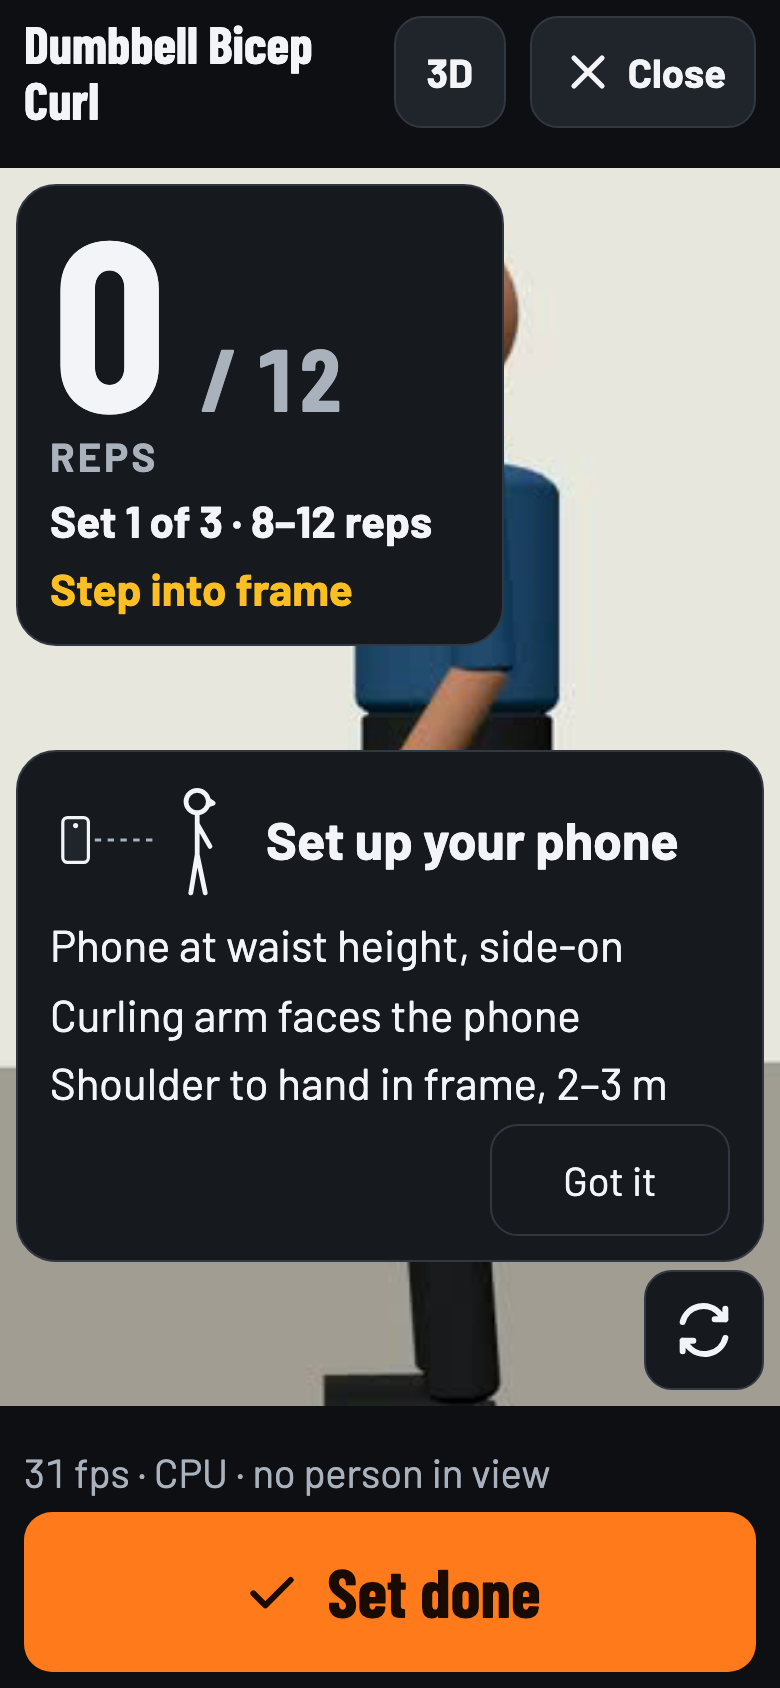
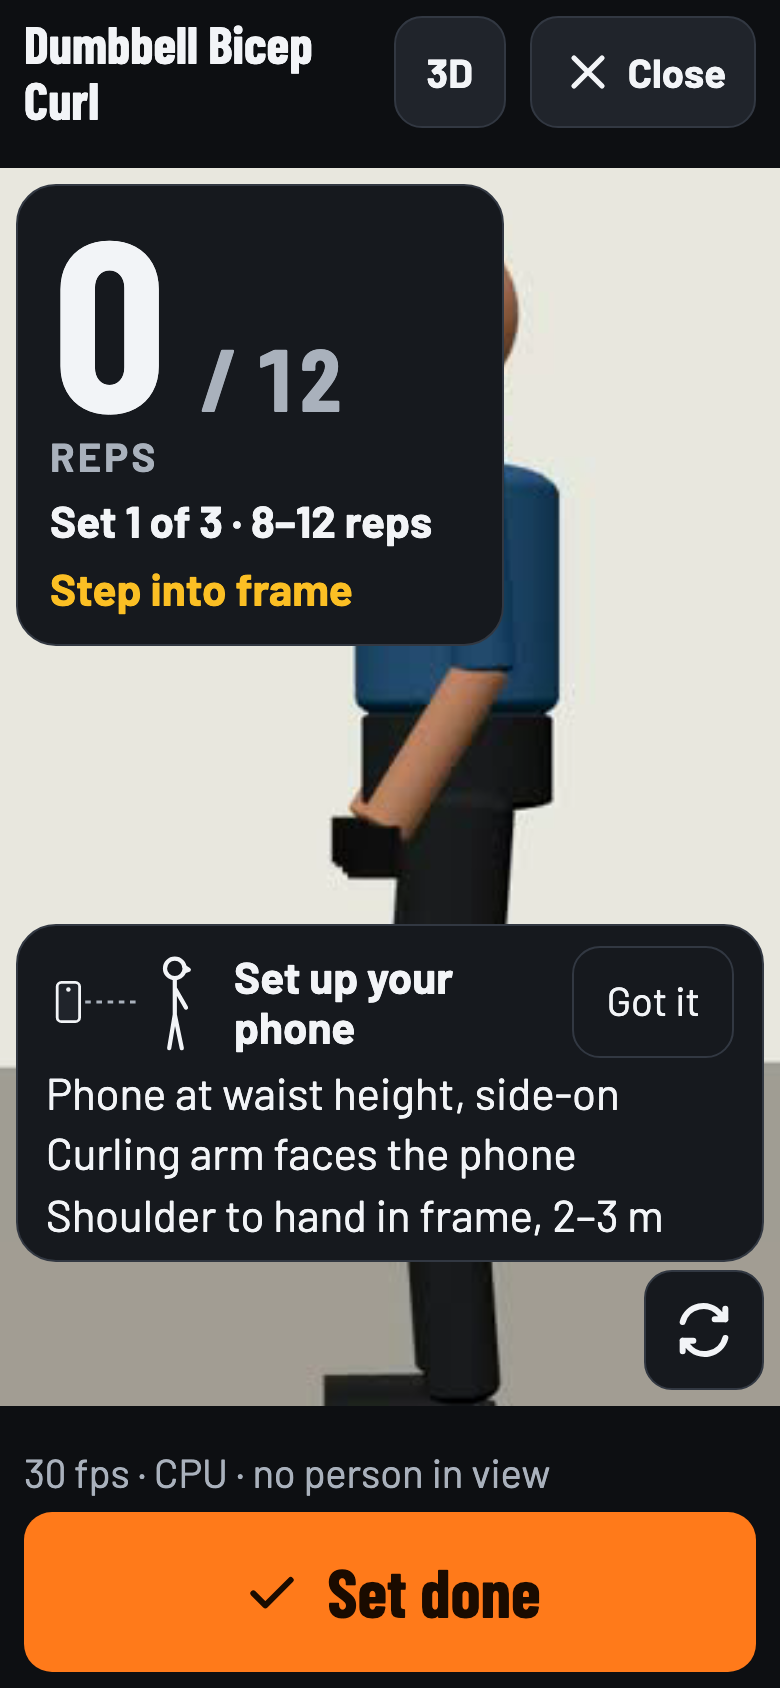
M4f wave 1 verified: screenshots, evidence, 375x667 set-up card noted as follow-up

Changed region(s): [[0.0, 0.4313, 0.9846, 0.7393], [0.0615, 0.8626, 0.0923, 0.8934]]

diff --git a/docs/PROGRESS.md b/docs/PROGRESS.md
@@ -225,6 +225,9 @@ Claude Code updates this file at the end of every task. A fresh session resumes 
 
 - **Evidence, wave 1 tasks 1–5, 8 (2026-11-14):** M4d batch 2 committed first (bb227b2, reviewer PASS). Then tasks 1–5, 8 and the task-10 howto.spec update, reviewer PASS: `npm run check` on the exact staged tree → vitest 51 files / 1802 tests, scripts 24/24; `e2e/howto.spec.ts` 3/3. Task 5 changed one demo keyframe: bent-over row far elbow 80° → 75° (15° past the < 90° threshold). Not shippable yet: tasks 6, 7, 9, 10 (synthetic fixtures, converter, camera chip/setup line, `ruleStatus` into `beginSet`) must land before any push.
 
+- **Verification, wave 1 (2026-11-14, verifier re-run on 96b0971):** PASS on SPEC M4f wave-1 Accept and tasks 1–11. `npm run check` 52 files / 1836 tests, scripts 29/29; `npm run build` OK (main 107.22 kB gzip); full e2e 111 passed, 1 skipped (opt-in HISTORY_SHOTS), no flakes; learning.spec ×3 33/33. Screenshots `docs/screenshots/m4f-*.png`. First verifier run FAILED (setup card clipped at 390×844, e2e gaps) → fixed in 80f9f3d.
+  - **Known limitation (main, decided):** at 375×667 the camera set-up card is a short scroll box (content cut; "Got it" stays fully visible, 56px, and the rep number is never covered). This also affects tuned exercises and predates M4f; the target phone is 390×844+ (CLAUDE.md, iPhone 17 Pro). Follow-up: make the set-up card fit small phones (ui-engineer), and assert scrollHeight ≤ clientHeight in learning.spec:328.
+
 #### Wave 2 — the doable nine (after Checkpoint F1 and his answers to M4f-q2/q6/q7, or their defaults)
 - [ ] 19. [core-engineer] New triplets, **tests first**.
   - Files: src/core/exercises/triplets.ts, index.test.ts, src/core/angles.test.ts if needed.
